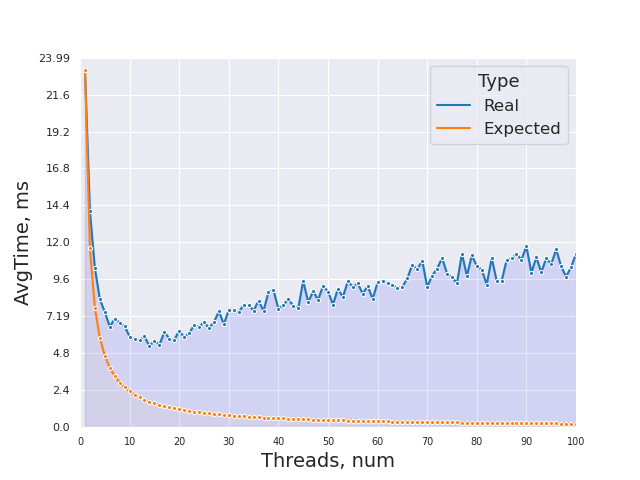
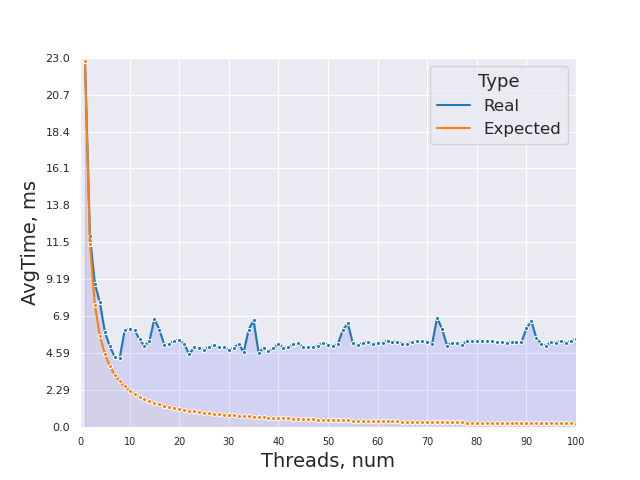
improved time measurements

diff --git a/lab2/graphs/timing.py b/lab2/graphs/timing.py
@@ -1,104 +1,4 @@
 num_el = 10_000_000
 t_succ = 0.0129926
 ts = [
-    (1, 0.0232093),
-    (2, 0.0140225),
-    (3, 0.0103175),
-    (4, 0.00831295),
-    (5, 0.0074771),
-    (6, 0.00651937),
-    (7, 0.00705708),
-    (8, 0.00678788),
-    (9, 0.00654733),
-    (10, 0.00588248),
-    (11, 0.00571162),
-    (12, 0.00566277),
-    (13, 0.00589295),
-    (14, 0.00526305),
-    (15, 0.00561944),
-    (16, 0.00533021),
-    (17, 0.00619309),
-    (18, 0.00575026),
-    (19, 0.00565629),
-    (20, 0.00627515),
-    (21, 0.00584629),
-    (22, 0.00609288),
-    (23, 0.0066416),
-    (24, 0.00650327),
-    (25, 0.00684007),
-    (26, 0.00644203),
-    (27, 0.00681877),
-    (28, 0.00752838),
-    (29, 0.00668096),
-    (30, 0.00762757),
-    (31, 0.00760631),
-    (32, 0.00747295),
-    (33, 0.00794087),
-    (34, 0.00793487),
-    (35, 0.00757609),
-    (36, 0.00820996),
-    (37, 0.00755243),
-    (38, 0.00877186),
-    (39, 0.00892273),
-    (40, 0.00767992),
-    (41, 0.0079412),
-    (42, 0.00830518),
-    (43, 0.00788724),
-    (44, 0.00771674),
-    (45, 0.00950439),
-    (46, 0.0081251),
-    (47, 0.00881932),
-    (48, 0.00828132),
-    (49, 0.00916557),
-    (50, 0.00880793),
-    (51, 0.00796695),
-    (52, 0.00898368),
-    (53, 0.00844571),
-    (54, 0.00948143),
-    (55, 0.00912281),
-    (56, 0.00933259),
-    (57, 0.00867004),
-    (58, 0.00916764),
-    (59, 0.00833458),
-    (60, 0.0093986),
-    (61, 0.00947636),
-    (62, 0.00936872),
-    (63, 0.00923173),
-    (64, 0.00904808),
-    (65, 0.00910429),
-    (66, 0.00966917),
-    (67, 0.0105547),
-    (68, 0.0102646),
-    (69, 0.0108097),
-    (70, 0.00910787),
-    (71, 0.0098442),
-    (72, 0.0102964),
-    (73, 0.0109877),
-    (74, 0.00997933),
-    (75, 0.00973611),
-    (76, 0.00934506),
-    (77, 0.0112647),
-    (78, 0.00982577),
-    (79, 0.0111614),
-    (80, 0.0104623),
-    (81, 0.0102231),
-    (82, 0.00926107),
-    (83, 0.0109809),
-    (84, 0.00951124),
-    (85, 0.00949155),
-    (86, 0.0108294),
-    (87, 0.0109675),
-    (88, 0.0112313),
-    (89, 0.010882),
-    (90, 0.0117462),
-    (91, 0.0100444),
-    (92, 0.0110205),
-    (93, 0.0100632),
-    (94, 0.0109711),
-    (95, 0.0105798),
-    (96, 0.0115472),
-    (97, 0.0104477),
-    (98, 0.00976732),
-    (99, 0.0103858),
-    (100, 0.0112508),
-]
+        (1, 0.0228029), (2, 0.0118737), (3, 0.0089172), (4, 0.00777304), (5, 0.00595227), (6, 0.00502897), (7, 0.00437243), (8, 0.00429652), (9, 0.00602747), (10, 0.00613498), (11, 0.00602917), (12, 0.00546933), (13, 0.00503488), (14, 0.00538986), (15, 0.0067353), (16, 0.00607758), (17, 0.00511515), (18, 0.00518953), (19, 0.00538029), (20, 0.00541974), (21, 0.00518693), (22, 0.00454171), (23, 0.0049673), (24, 0.00491756), (25, 0.00479953), (26, 0.00501652), (27, 0.00508917), (28, 0.00496498), (29, 0.00497932), (30, 0.00482054), (31, 0.00492162), (32, 0.00518651), (33, 0.00466228), (34, 0.00607912), (35, 0.00664631), (36, 0.00463882), (37, 0.00492337), (38, 0.0047393), (39, 0.00490609), (40, 0.0051963), (41, 0.00495919), (42, 0.00497404), (43, 0.00514728), (44, 0.0052262), (45, 0.0049843), (46, 0.00497158), (47, 0.00502148), (48, 0.00507935), (49, 0.00525488), (50, 0.00513706), (51, 0.00506605), (52, 0.00518178), (53, 0.00605631), (54, 0.00645875), (55, 0.0052234), (56, 0.00509607), (57, 0.00526021), (58, 0.00529422), (59, 0.00516686), (60, 0.00522771), (61, 0.00526914), (62, 0.00536454), (63, 0.00531109), (64, 0.00533203), (65, 0.00518494), (66, 0.00518602), (67, 0.00533129), (68, 0.00533498), (69, 0.00533948), (70, 0.00532041), (71, 0.00520116), (72, 0.00682013), (73, 0.00610419), (74, 0.00507578), (75, 0.00525303), (76, 0.00521336), (77, 0.00510583), (78, 0.00537942), (79, 0.00537924), (80, 0.00537985), (81, 0.0053713), (82, 0.00536626), (83, 0.00537165), (84, 0.00527139), (85, 0.00531343), (86, 0.00524346), (87, 0.00531684), (88, 0.00528197), (89, 0.00529277), (90, 0.00616388), (91, 0.00660634), (92, 0.00555576), (93, 0.00518811), (94, 0.00507639), (95, 0.00530661), (96, 0.00526147), (97, 0.00537979), (98, 0.0052335), (99, 0.00537847), (100, 0.0054998), ]
